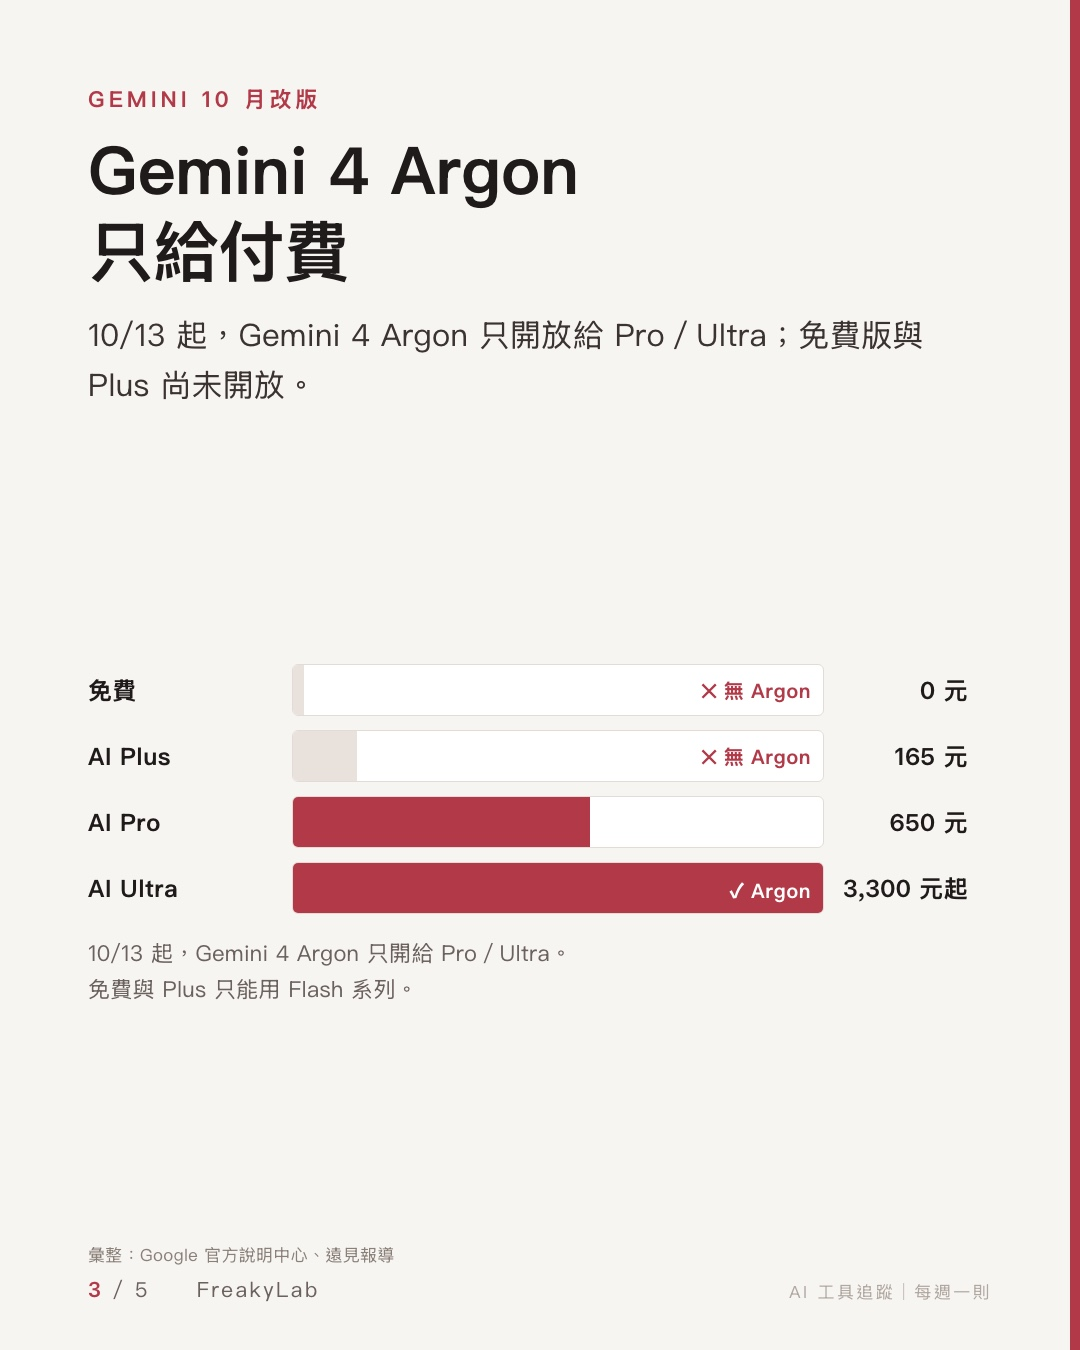
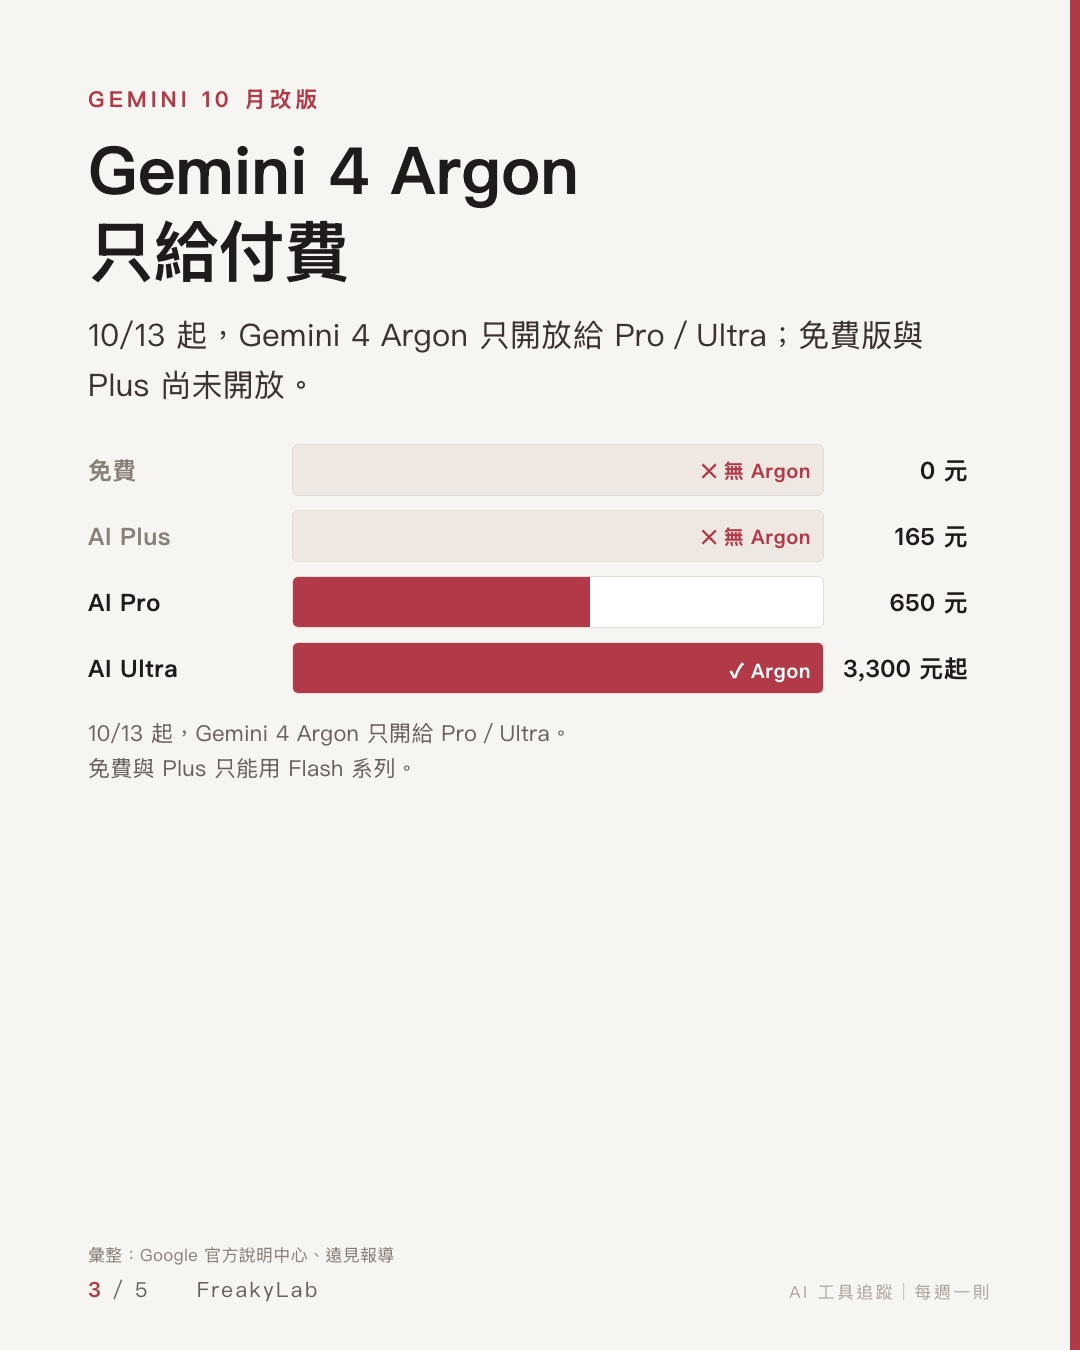
batch-002 final v5: tighter layout

diff --git a/final/batch-002/slide_3.html b/final/batch-002/slide_3.html
@@ -7,7 +7,7 @@ body{background:#F7F5F2;font-family:"PingFang TC","Noto Sans TC",sans-serif;colo
 .kicker{font-size:22px;font-weight:700;letter-spacing:.16em;color:#B23A48}
 h1{font-size:66px;line-height:1.22;font-weight:800;margin-top:16px;letter-spacing:-.015em}
 .lead{font-size:31px;line-height:1.6;color:#3A3331;margin-top:20px;width:860px}
-.stage{flex:1;display:flex;flex-direction:column;justify-content:center;margin:18px 0 0}
+.stage{flex:1;display:flex;flex-direction:column;justify-content:flex-start;margin:34px 0 0}
 .foot{display:flex;justify-content:space-between;align-items:flex-end;font-size:21px;letter-spacing:.1em;color:#6B625E;padding-bottom:46px;margin-top:auto}
 .foot b{color:#B23A48;font-weight:800}
 .src{font-size:17px;color:#8A8078;letter-spacing:0;margin-bottom:8px}
@@ -58,14 +58,15 @@ h1{font-size:66px;line-height:1.22;font-weight:800;margin-top:16px;letter-spacin
 .itemx .d{font-size:21px;color:#6B625E;margin-top:6px}
 .cta{margin-top:26px;background:#1F1B1A;color:#F7F5F2;border-radius:10px;padding:26px 28px;display:flex;justify-content:space-between;align-items:center;font-size:27px;font-weight:800}
 .cta em{font-style:normal;color:#E8A0A9;font-size:22px;letter-spacing:.1em}
+.bar.off .lbl{color:#8A8078}.bar.off .track{background:#EFE8E2}.bar.off .fill{background:#EFE8E2}
 </style>
 <div class="s"><div class="rail"></div>
 <div class="kicker">GEMINI 10 月改版</div>
 <h1>Gemini 4 Argon<br>只給付費</h1>
 <div class="lead">10/13 起，Gemini 4 Argon 只開放給 Pro／Ultra；免費版與 Plus 尚未開放。</div>
 <div class="stage"><div class="price">
-  <div class="bar"><div class="lbl">免費</div><div class="track"><div class="fill" style="width:2%"></div><div class="lockx">✕ 無 Argon</div></div><div class="amt">0 元</div></div>
-  <div class="bar"><div class="lbl">AI Plus</div><div class="track"><div class="fill" style="width:12%"></div><div class="lockx">✕ 無 Argon</div></div><div class="amt">165 元</div></div>
+  <div class="bar off"><div class="lbl">免費</div><div class="track"><div class="fill" style="width:2%"></div><div class="lockx">✕ 無 Argon</div></div><div class="amt">0 元</div></div>
+  <div class="bar off"><div class="lbl">AI Plus</div><div class="track"><div class="fill" style="width:12%"></div><div class="lockx">✕ 無 Argon</div></div><div class="amt">165 元</div></div>
   <div class="bar lock"><div class="lbl">AI Pro</div><div class="track"><div class="fill" style="width:56%"></div><div class="lockx" style="color:#fff">✓ Argon</div></div><div class="amt">650 元</div></div>
   <div class="bar lock"><div class="lbl">AI Ultra</div><div class="track"><div class="fill" style="width:100%"></div><div class="lockx" style="color:#fff">✓ Argon</div></div><div class="amt">3,300 元起</div></div>
   <div style="margin-top:22px;font-size:22px;color:#6B625E;line-height:1.6">10/13 起，Gemini 4 Argon 只開給 Pro／Ultra。<br>免費與 Plus 只能用 Flash 系列。</div>

diff --git a/final/batch-002/slide_4.html b/final/batch-002/slide_4.html
@@ -7,7 +7,7 @@ body{background:#F7F5F2;font-family:"PingFang TC","Noto Sans TC",sans-serif;colo
 .kicker{font-size:22px;font-weight:700;letter-spacing:.16em;color:#B23A48}
 h1{font-size:66px;line-height:1.22;font-weight:800;margin-top:16px;letter-spacing:-.015em}
 .lead{font-size:31px;line-height:1.6;color:#3A3331;margin-top:20px;width:860px}
-.stage{flex:1;display:flex;flex-direction:column;justify-content:center;margin:18px 0 0}
+.stage{flex:1;display:flex;flex-direction:column;justify-content:flex-start;margin:34px 0 0}
 .foot{display:flex;justify-content:space-between;align-items:flex-end;font-size:21px;letter-spacing:.1em;color:#6B625E;padding-bottom:46px;margin-top:auto}
 .foot b{color:#B23A48;font-weight:800}
 .src{font-size:17px;color:#8A8078;letter-spacing:0;margin-bottom:8px}
@@ -64,8 +64,8 @@ h1{font-size:66px;line-height:1.22;font-weight:800;margin-top:16px;letter-spacin
 <h1>Gemini Plus<br>要拿掉 Pro</h1>
 <div class="lead">據遠見報導，Gemini AI Plus 11/13 起不再支援 Pro，只剩 Flash 與 Flash-Lite。</div>
 <div class="stage"><div class="ba">
-  <div class="pane"><div class="h">現在</div><div class="v">Flash + Pro</div><div class="n">Plus 目前包含 Pro</div></div>
-  <div class="pane hot"><div class="h">11/13 起</div><div class="v">Flash + <span class="strike2">Pro</span><br>只剩 Flash 系列</div><div class="n">據遠見報導，Pro 不再提供</div></div>
-</div></div>
+  <div class="pane" style="min-height:300px"><div class="h">現在</div><div class="v">Flash + Pro</div><div class="n">Plus 目前包含 Pro</div></div>
+  <div class="pane hot" style="min-height:300px"><div class="h">11/13 起</div><div class="v">Flash + <span class="strike2">Pro</span><br>只剩 Flash 系列</div><div class="n">據遠見報導，Pro 不再提供</div></div>
+</div></div><div style="margin-top:30px;background:#fff;border:1px solid #E3DCD6;border-radius:10px;padding:22px 24px;font-size:23px;line-height:1.6;width:880px"><b>那 Plus（165 元）還值得嗎？</b><br>如果你只需要一般問答整理，Flash 系列已經夠用；需要 Pro 的推理品質，11/13 之後得往上升一階。</div>
 <div class="foot"><div><div class="src">來源：遠見報導（日期以官方公告為準）</div><span><b>4</b> / 5　　FreakyLab</span></div><span style="font-size:17px;color:#B0A79F">AI 工具追蹤｜每週一則</span></div>
 </div>

diff --git a/final/batch-002/slide_1.html b/final/batch-002/slide_1.html
@@ -7,7 +7,7 @@ body{background:#F7F5F2;font-family:"PingFang TC","Noto Sans TC",sans-serif;colo
 .kicker{font-size:22px;font-weight:700;letter-spacing:.16em;color:#B23A48}
 h1{font-size:66px;line-height:1.22;font-weight:800;margin-top:16px;letter-spacing:-.015em}
 .lead{font-size:31px;line-height:1.6;color:#3A3331;margin-top:20px;width:860px}
-.stage{flex:1;display:flex;flex-direction:column;justify-content:center;margin:18px 0 0}
+.stage{flex:1;display:flex;flex-direction:column;justify-content:flex-start;margin:34px 0 0}
 .foot{display:flex;justify-content:space-between;align-items:flex-end;font-size:21px;letter-spacing:.1em;color:#6B625E;padding-bottom:46px;margin-top:auto}
 .foot b{color:#B23A48;font-weight:800}
 .src{font-size:17px;color:#8A8078;letter-spacing:0;margin-bottom:8px}

diff --git a/final/batch-002/slide_2.html b/final/batch-002/slide_2.html
@@ -7,7 +7,7 @@ body{background:#F7F5F2;font-family:"PingFang TC","Noto Sans TC",sans-serif;colo
 .kicker{font-size:22px;font-weight:700;letter-spacing:.16em;color:#B23A48}
 h1{font-size:66px;line-height:1.22;font-weight:800;margin-top:16px;letter-spacing:-.015em}
 .lead{font-size:31px;line-height:1.6;color:#3A3331;margin-top:20px;width:860px}
-.stage{flex:1;display:flex;flex-direction:column;justify-content:center;margin:18px 0 0}
+.stage{flex:1;display:flex;flex-direction:column;justify-content:flex-start;margin:34px 0 0}
 .foot{display:flex;justify-content:space-between;align-items:flex-end;font-size:21px;letter-spacing:.1em;color:#6B625E;padding-bottom:46px;margin-top:auto}
 .foot b{color:#B23A48;font-weight:800}
 .src{font-size:17px;color:#8A8078;letter-spacing:0;margin-bottom:8px}

diff --git a/final/batch-002/slide_5.html b/final/batch-002/slide_5.html
@@ -7,7 +7,7 @@ body{background:#F7F5F2;font-family:"PingFang TC","Noto Sans TC",sans-serif;colo
 .kicker{font-size:22px;font-weight:700;letter-spacing:.16em;color:#B23A48}
 h1{font-size:66px;line-height:1.22;font-weight:800;margin-top:16px;letter-spacing:-.015em}
 .lead{font-size:31px;line-height:1.6;color:#3A3331;margin-top:20px;width:860px}
-.stage{flex:1;display:flex;flex-direction:column;justify-content:center;margin:18px 0 0}
+.stage{flex:1;display:flex;flex-direction:column;justify-content:flex-start;margin:34px 0 0}
 .foot{display:flex;justify-content:space-between;align-items:flex-end;font-size:21px;letter-spacing:.1em;color:#6B625E;padding-bottom:46px;margin-top:auto}
 .foot b{color:#B23A48;font-weight:800}
 .src{font-size:17px;color:#8A8078;letter-spacing:0;margin-bottom:8px}
